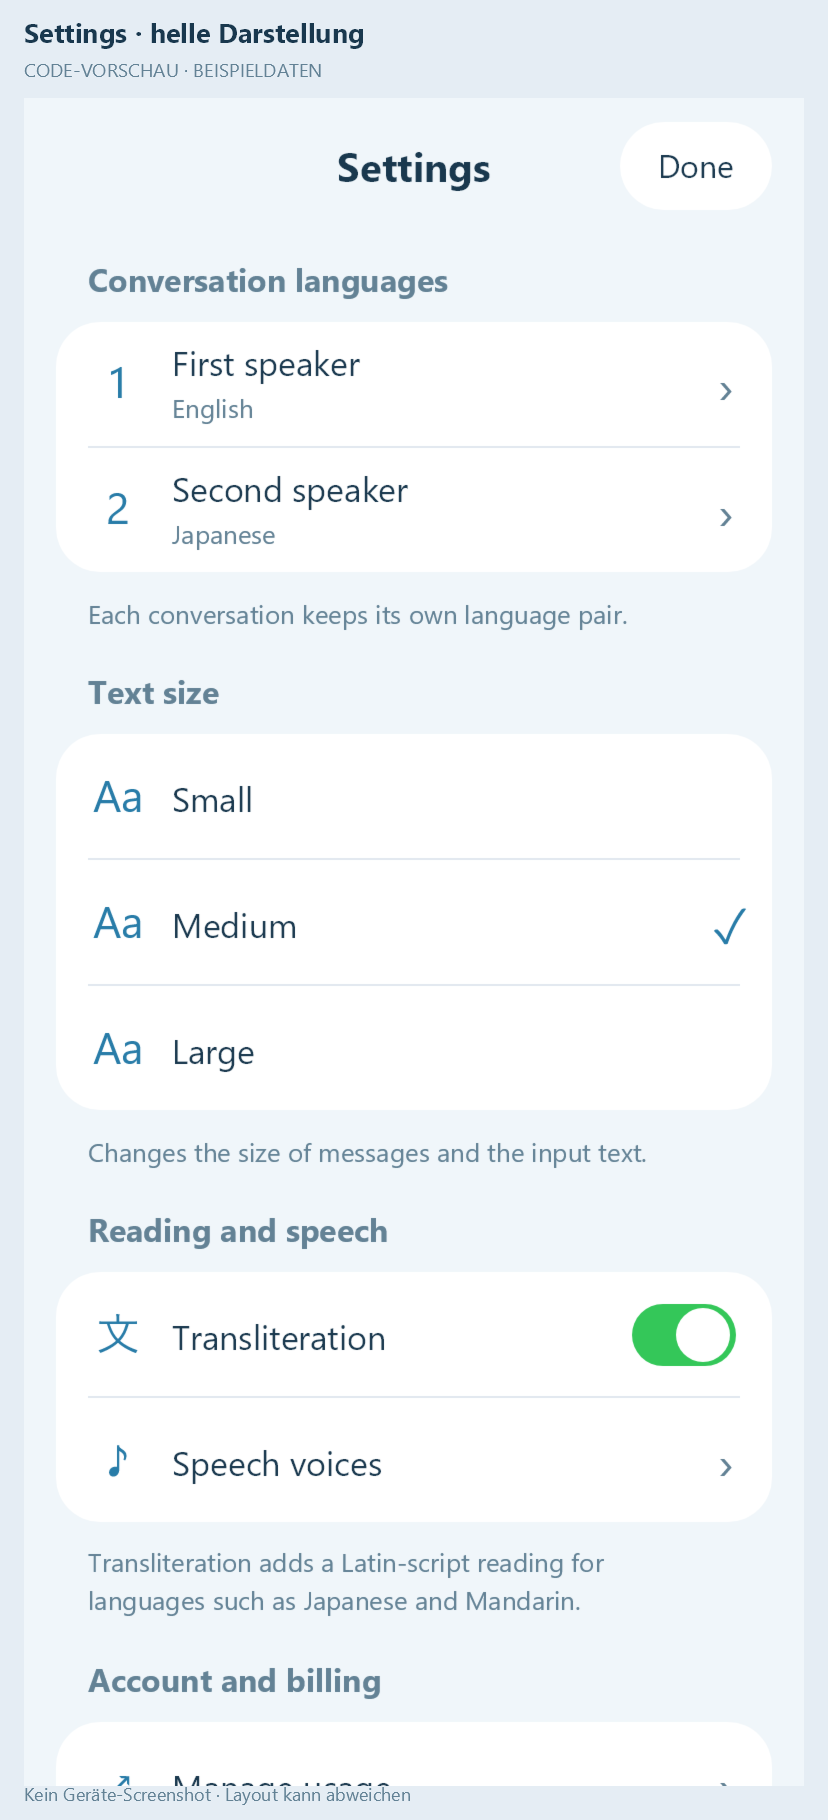
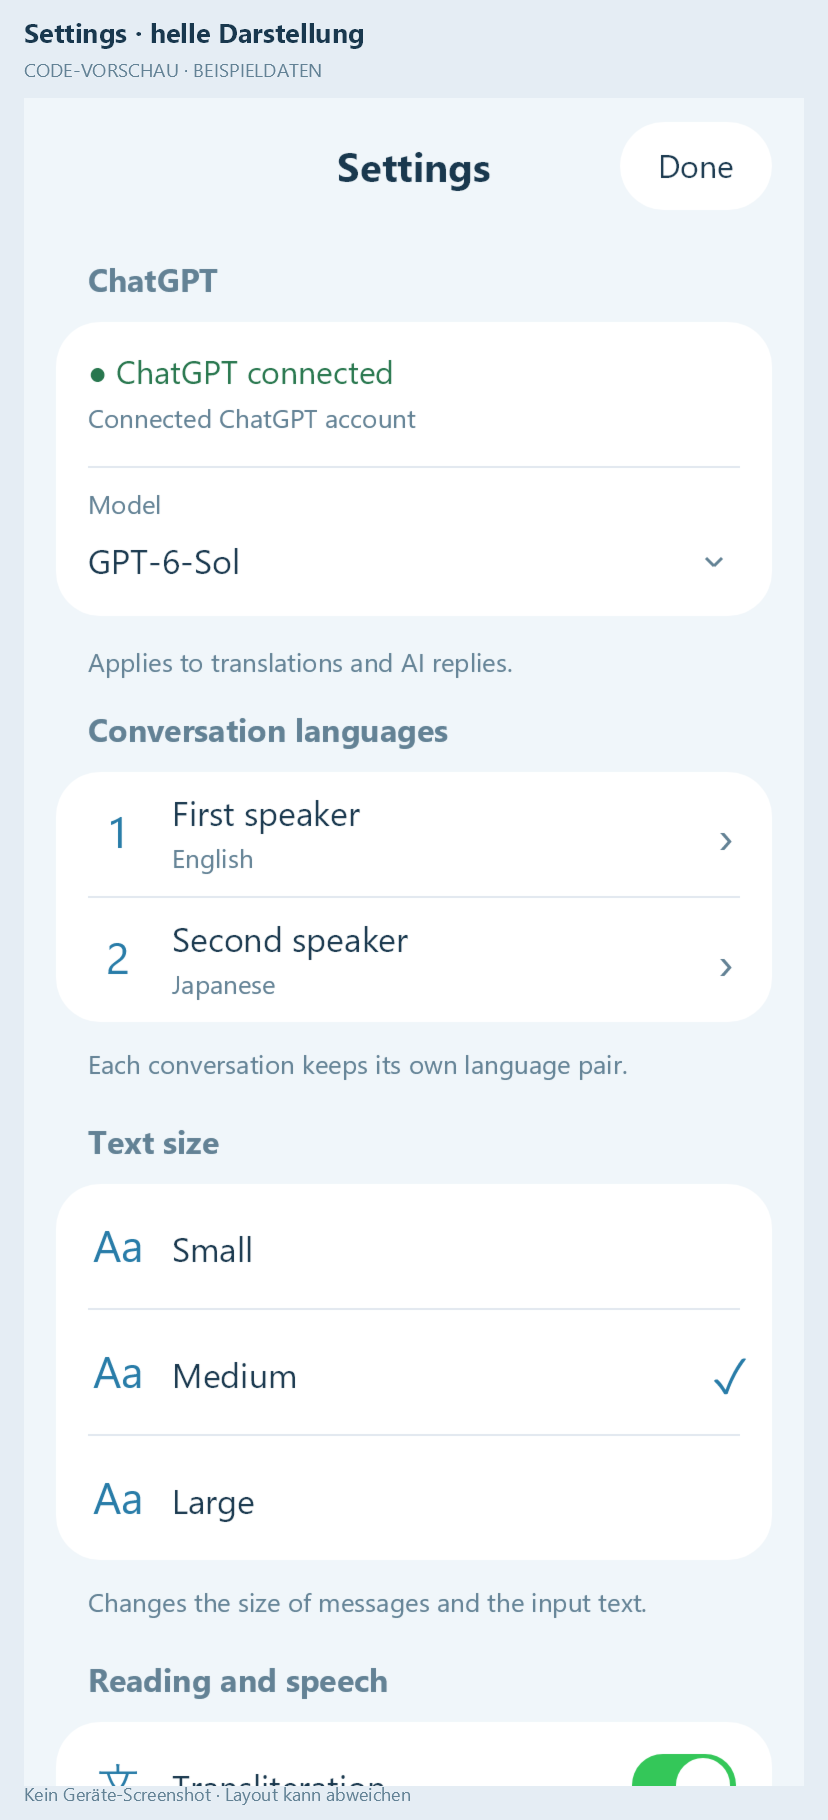
Move account and model controls to Settings and split header navigation

diff --git a/Koe-Maui/MainPage.cs b/Koe-Maui/MainPage.cs
@@ -38,7 +38,7 @@ public sealed class MainPage : ContentPage
     readonly ConversationListView conversationList;
     readonly VerticalStackLayout composer;
     readonly ImageButton chatBack = new() { Source = "back.png", WidthRequest = 44, HeightRequest = 44, CornerRadius = 22, Padding = 11, BackgroundColor = Color.FromArgb("#E8F2F9") };
-    readonly ImageButton newConversation = new() { Source = "compose.png", WidthRequest = 48, HeightRequest = 44, Padding = 10, BackgroundColor = Colors.Transparent };
+    readonly ImageButton newConversation = new() { Source = "compose.png", WidthRequest = 44, HeightRequest = 44, CornerRadius = 22, Padding = 10, BackgroundColor = Color.FromArgb("#E8F2F9") };
     bool showingConversations = true, initializedConversations;
     Guid conversationId = Guid.NewGuid();
     DateTimeOffset conversationCreatedAt = DateTimeOffset.UtcNow;
@@ -79,8 +79,7 @@ public sealed class MainPage : ContentPage
     readonly Button firstSpeaker = LanguageButton("English"), secondSpeaker = LanguageButton("Japanese");
     readonly Button aiSpeaker = new() { Text = "AI", FontSize = 14, FontAttributes = FontAttributes.Bold, WidthRequest = 52, HeightRequest = 36, CornerRadius = 18, Padding = 0, TextColor = Color.FromArgb("#205C3B"), BackgroundColor = Colors.White, BorderColor = Color.FromArgb("#9ACCAF"), BorderWidth = 1 };
     readonly Label status = new() { FontSize = 12, TextColor = Muted, HorizontalTextAlignment = TextAlignment.Center, IsVisible = false };
-    readonly Label account = new() { FontSize = 12, TextColor = Muted, MaxLines = 1, LineBreakMode = LineBreakMode.TailTruncation, VerticalTextAlignment = TextAlignment.Center };
-    readonly Picker modelPicker = new() { Title = "Model", FontSize = 12, WidthRequest = 132, HeightRequest = 30, MinimumHeightRequest = 30, VerticalOptions = LayoutOptions.Center, TextColor = Ink, BackgroundColor = Color.FromArgb("#E8F2F9"), ItemDisplayBinding = new Binding(nameof(TranslationModel.Name)) };
+    TranslationModel[] availableModels = [];
     bool updatingModels, loadingModels;
     string selectedModelId = Preferences.Default.Get("koe.model", "");
     readonly Label prompt = new() { FontSize = 17, FontAttributes = FontAttributes.Bold, TextColor = Ink };
@@ -106,47 +105,26 @@ public sealed class MainPage : ContentPage
         Title = "Koe"; BackgroundColor = Color.FromArgb("#F0F6FA");
         // Resize the whole chat above the keyboard, including the composer and send button.
         SafeAreaEdges = Microsoft.Maui.SafeAreaEdges.All;
-        var menu = new ImageButton { Source = "more.png", BackgroundColor = Colors.Transparent, WidthRequest = 48, HeightRequest = 44, Padding = 10 };
+        var menu = new ImageButton { Source = "more.png", BackgroundColor = Color.FromArgb("#E8F2F9"), WidthRequest = 44, HeightRequest = 44, CornerRadius = 22, Padding = 10 };
         SemanticProperties.SetDescription(menu, "Settings");
         menu.Clicked += async (_, _) => { if (!busy && !leavingConversation && !recording.HasTurn) await ShowSettingsAsync(); };
         newConversation.Clicked += async (_, _) => await StartNewConversationAsync();
         SemanticProperties.SetDescription(newConversation, "Start a new conversation");
-        var header = new Grid
+        var header = new VerticalStackLayout
         {
-            Padding = new Thickness(18, 6, 18, 8), ColumnSpacing = 10, RowSpacing = 2, BackgroundColor = Colors.White,
-            ColumnDefinitions = { new ColumnDefinition(GridLength.Star), new ColumnDefinition(GridLength.Auto) },
-            RowDefinitions = { new RowDefinition(GridLength.Auto), new RowDefinition(GridLength.Auto) }
+            Padding = new Thickness(18, 6, 18, 8), Spacing = 2, BackgroundColor = Colors.White
         };
         SemanticProperties.SetDescription(chatBack, "Show saved conversations");
         chatBack.Clicked += async (_, _) => await BackToChatsAsync();
-        // Equal fixed side slots keep the title centered when the back button is hidden.
-        var heading = new Grid { ColumnSpacing = 0, ColumnDefinitions = { new(98), new(GridLength.Star), new(98) } };
-        chatBack.HorizontalOptions = LayoutOptions.Start;
-        chatBack.VerticalOptions = LayoutOptions.Center;
-        heading.Add(chatBack, 0, 0);
+        // The title has its own centered row; chat navigation stays in the row below.
+        var heading = new Grid { ColumnSpacing = 0, ColumnDefinitions = { new(44), new(GridLength.Star), new(44) } };
         heading.Add(new Label { Text = "Koe", FontSize = 23, FontAttributes = FontAttributes.Bold, TextColor = Ink, HorizontalTextAlignment = TextAlignment.Center, VerticalTextAlignment = TextAlignment.Center, MaxLines = 1 }, 1, 0);
-        header.Add(heading, 0, 0);
-        Grid.SetColumnSpan(heading, 2);
-        var actions = new Grid { ColumnSpacing = 0, ColumnDefinitions = { new(48), new(48) } };
-        actions.Add(newConversation, 0, 0); actions.Add(menu, 1, 0);
-        var actionPill = new Border
-        {
-            Content = actions, Padding = 0, HeightRequest = 46, WidthRequest = 98,
-            HorizontalOptions = LayoutOptions.End, BackgroundColor = Color.FromArgb("#E8F2F9"),
-            Stroke = Color.FromArgb("#DCE8F0"), StrokeThickness = 1,
-            StrokeShape = new RoundRectangle { CornerRadius = 23 }
-        };
-        heading.Add(actionPill, 2, 0);
-        header.Add(account, 0, 1);
-        header.Add(modelPicker, 1, 1);
-        modelPicker.HorizontalOptions = LayoutOptions.End;
-        SemanticProperties.SetDescription(modelPicker, "ChatGPT model");
-        modelPicker.SelectedIndexChanged += (_, _) =>
-        {
-            if (updatingModels || modelPicker.SelectedItem is not TranslationModel selected) return;
-            selectedModelId = selected.Id;
-            Preferences.Default.Set("koe.model", selectedModelId);
-        };
+        heading.Add(menu, 2, 0);
+        header.Children.Add(heading);
+        var navigation = new Grid { ColumnSpacing = 0, ColumnDefinitions = { new(44), new(GridLength.Star), new(44) } };
+        navigation.Add(chatBack, 0, 0);
+        navigation.Add(newConversation, 2, 0);
+        header.Children.Add(navigation);
         signInCard = new Border
         {
             Margin = new Thickness(16, 10), Padding = 14, StrokeThickness = 0, BackgroundColor = Color.FromArgb("#E1EEF8"), StrokeShape = new RoundRectangle { CornerRadius = 18 },
@@ -676,17 +654,17 @@ public sealed class MainPage : ContentPage
         await RefreshModelsAsync();
     }
 
-    async Task RefreshModelsAsync()
+    public async Task RefreshModelsAsync()
     {
         if (!auth.IsConnected)
         {
-            updatingModels = true;
-            modelPicker.ItemsSource = null;
-            updatingModels = false;
+            availableModels = [];
+            NotifyModelChoices();
             return;
         }
         if (loadingModels) return;
         loadingModels = true;
+        NotifyModelChoices();
         var connection = auth.ConnectionKey;
         try
         {
@@ -694,18 +672,29 @@ public sealed class MainPage : ContentPage
             var available = await translator.GetModelsAsync(timeout.Token);
             if (!auth.IsConnected || auth.ConnectionKey != connection) return;
             var selected = available.FirstOrDefault(x => x.Id == selectedModelId) ?? available[0];
-            updatingModels = true;
-            modelPicker.ItemsSource = available;
-            modelPicker.SelectedItem = selected;
+            availableModels = available;
             selectedModelId = selected.Id;
             Preferences.Default.Set("koe.model", selectedModelId);
         }
         catch (Exception) { if (!busy && auth.IsConnected && pageVisible) SetStatus("Could not load model choices. Reconnect to refresh the list."); }
         finally
         {
-            updatingModels = false; loadingModels = false; UpdateControls();
+            loadingModels = false; UpdateControls(); NotifyModelChoices();
             if (auth.IsConnected && auth.ConnectionKey != connection) await RefreshModelsAsync();
         }
+    }
+
+    void NotifyModelChoices()
+    {
+        updatingModels = true;
+        try
+        {
+            OnPropertyChanged(nameof(AvailableModels));
+            OnPropertyChanged(nameof(SelectedModel));
+            OnPropertyChanged(nameof(ModelChoiceHint));
+            OnPropertyChanged(nameof(CanSelectModel));
+        }
+        finally { updatingModels = false; }
     }
 
     protected override void OnDisappearing()
@@ -766,7 +755,25 @@ public sealed class MainPage : ContentPage
     public string SecondLanguageName => second.Name;
     public string CurrentTextSize => TextSizeLabel;
     public bool IsAccountConnected => auth.IsConnected;
+    public bool IsAccountDisconnected => !auth.IsConnected;
     public string AccountName => auth.AccountLabel;
+    public IReadOnlyList<TranslationModel> AvailableModels => availableModels;
+    public bool CanSelectModel => auth.IsConnected && !busy && !recording.HasTurn && !loadingModels && availableModels.Length > 0;
+    public string ModelChoiceHint => !auth.IsConnected ? "Connect ChatGPT to choose a model."
+        : loadingModels ? "Loading your account's models …"
+        : availableModels.Length == 0 ? "Could not load models. Close Settings and reopen to retry."
+        : "Applies to translations and AI replies.";
+    public TranslationModel? SelectedModel
+    {
+        get => availableModels.FirstOrDefault(model => model.Id == selectedModelId);
+        set
+        {
+            if (updatingModels || !CanSelectModel || value is null || !availableModels.Any(model => model.Id == value.Id) || value.Id == selectedModelId) return;
+            selectedModelId = value.Id;
+            Preferences.Default.Set("koe.model", selectedModelId);
+            OnPropertyChanged(nameof(SelectedModel));
+        }
+    }
 
     public Task ShowSettingsAsync(INavigation? navigation = null)
     {
@@ -1066,11 +1073,11 @@ public sealed class MainPage : ContentPage
         livePreview.BackgroundColor = mode.IsAi ? Color.FromArgb("#DDF1DF") : Colors.White;
         firstGreeting.Text = first.Greeting;
         secondGreeting.Text = second.Greeting;
-        account.Text = auth.IsConnected ? "● ChatGPT connected" : "○ ChatGPT not connected";
-        account.TextColor = auth.IsConnected ? Color.FromArgb("#28774E") : Muted;
         draft.PreferredCulture = mode.IsAi ? "" : SourceLanguage.Culture;
-        modelPicker.IsVisible = auth.IsConnected;
-        modelPicker.IsEnabled = auth.IsConnected && !busy && !recording.HasTurn && !loadingModels && modelPicker.ItemsSource is { Count: > 0 };
+        OnPropertyChanged(nameof(IsAccountConnected));
+        OnPropertyChanged(nameof(IsAccountDisconnected));
+        OnPropertyChanged(nameof(AccountName));
+        OnPropertyChanged(nameof(CanSelectModel));
         signInCard.IsVisible = !auth.IsConnected; connect.IsEnabled = !busy;
         draft.IsReadOnly = busy && (!pausingForEdit || discardingInput);
         send.IsEnabled = !busy && auth.IsConnected && (recording.HasTurn || !string.IsNullOrWhiteSpace(draft.Text) || pendingImage is not null);

diff --git a/Koe-Maui/SettingsPage.cs b/Koe-Maui/SettingsPage.cs
@@ -76,7 +76,11 @@ public sealed class SettingsPage : ContentPage
         Refresh();
     }
 
-    protected override void OnAppearing() { base.OnAppearing(); Refresh(); }
+    protected override async void OnAppearing()
+    {
+        base.OnAppearing(); Refresh();
+        await owner.RefreshModelsAsync();
+    }
 
     void Section(string name)
     {
@@ -130,6 +134,42 @@ public sealed class SettingsPage : ContentPage
     void Refresh()
     {
         body.Children.Clear();
+        Section("ChatGPT");
+        var connection = new VerticalStackLayout { Padding = new Thickness(16, 14), Spacing = 4 };
+        var connected = SettingsStyle.Label("● ChatGPT connected", 16);
+        connected.SetAppThemeColor(Label.TextColorProperty, Color.FromArgb("#28774E"), Color.FromArgb("#7AD5A3"));
+        connected.SetBinding(VisualElement.IsVisibleProperty, new Binding(nameof(MainPage.IsAccountConnected), source: owner));
+        var disconnected = SettingsStyle.Label("○ ChatGPT not connected", 16, muted: true);
+        disconnected.SetBinding(VisualElement.IsVisibleProperty, new Binding(nameof(MainPage.IsAccountDisconnected), source: owner));
+        var accountName = SettingsStyle.Label("", 13, muted: true);
+        accountName.SetBinding(Label.TextProperty, new Binding(nameof(MainPage.AccountName), source: owner));
+        accountName.SetBinding(VisualElement.IsVisibleProperty, new Binding(nameof(MainPage.IsAccountConnected), source: owner));
+        connection.Children.Add(connected);
+        connection.Children.Add(disconnected);
+        connection.Children.Add(accountName);
+        var modelPicker = new Picker
+        {
+            Title = "Choose a model", FontSize = 17, HeightRequest = 44, MinimumHeightRequest = 44,
+            BackgroundColor = Colors.Transparent, HorizontalOptions = LayoutOptions.Fill,
+            ItemDisplayBinding = new Binding(nameof(TranslationModel.Name))
+        };
+        modelPicker.SetAppThemeColor(Picker.TextColorProperty, Color.FromArgb("#19384E"), Color.FromArgb("#F5F5F7"));
+        modelPicker.SetAppThemeColor(Picker.TitleColorProperty, Color.FromArgb("#638295"), Color.FromArgb("#B2B2B7"));
+        modelPicker.SetBinding(Picker.ItemsSourceProperty, new Binding(nameof(MainPage.AvailableModels), source: owner));
+        modelPicker.SetBinding(Picker.SelectedItemProperty, new Binding(nameof(MainPage.SelectedModel), BindingMode.TwoWay, source: owner));
+        modelPicker.SetBinding(VisualElement.IsEnabledProperty, new Binding(nameof(MainPage.CanSelectModel), source: owner));
+        SemanticProperties.SetDescription(modelPicker, "ChatGPT model for translations and AI replies");
+        var modelRow = new VerticalStackLayout
+        {
+            Padding = new Thickness(16, 8), Spacing = 0,
+            Children = { SettingsStyle.Label("Model", 13, muted: true), modelPicker }
+        };
+        body.Children.Add(SettingsStyle.Group(connection, modelRow));
+        var modelHint = SettingsStyle.Label("", 13, muted: true);
+        modelHint.Margin = new Thickness(16, 0);
+        modelHint.SetBinding(Label.TextProperty, new Binding(nameof(MainPage.ModelChoiceHint), source: owner));
+        body.Children.Add(modelHint);
+
         Section("Conversation languages");
         body.Children.Add(SettingsStyle.Group(
             Action("1", "First speaker", () => owner.ChangeLanguageAsync(true), owner.FirstLanguageName),

diff --git a/README.md b/README.md
@@ -4,15 +4,15 @@ The app icon uses three overlapping, offset speech bubbles: a white **A**, a min
 
 ## Saved conversations and grouped Settings
 
-Saved chats are shown directly in the normal Koe window, inside the transcript area. The Koe header, account status, model picker and the full composer stay visible. Tap the **square-and-pencil** icon in the header for a new conversation, tap a saved chat to open its transcript in the same area, and use the back chevron to show the embedded list again. There is no separate start page or chat-list navigation push. Typing or recording from the list starts a new conversation using the visible composer. Each row shows a title from its first message, the latest message or draft, its language pair and its date. Swipe left to reveal the red **Delete** action, then tap it to delete that conversation and its photos. **Clear history** has been removed. New, unused chats do not create empty list entries.
+Saved chats are shown directly in the normal Koe window, inside the transcript area. The Koe header and the full composer stay visible. Tap the **square-and-pencil** icon in the header for a new conversation, tap a saved chat to open its transcript in the same area, and use the back chevron to show the embedded list again. There is no separate start page or chat-list navigation push. Typing or recording from the list starts a new conversation using the visible composer. Each row shows a title from its first message, the latest message or draft, its language pair and its date. Swipe left to reveal the red **Delete** action, then tap it to delete that conversation and its photos. **Clear history** has been removed. New, unused chats do not create empty list entries.
 
 Completed translations, bilingual AI messages, transliterations, source links, selected languages, active speaker/AI mode, editable drafts and attached photos are stored in the app's data directory. Text changes are saved after a short debounce; sending, leaving a chat and app lifecycle events also flush the current snapshot. Opening a chat restores its own messages and therefore its own AI context. A new chat starts with no prior conversation context. Opening the list or starting another conversation pauses an active microphone and saves the current draft first; recording never restarts automatically on reopening.
 
 A per-chat JSON manifest is written to a temporary file, flushed and atomically renamed. The last valid manifest is retained as a recovery backup. Photos are stored separately by content hash inside the chat folder, rather than copied into every message or JSON rewrite. Deleting a chat removes its manifest, backup and photos; queued saves cannot recreate that deleted chat. Credentials and personal voice API keys remain in SecureStorage and are never included in chat files. Paths are reconstructed from AppDataDirectory on each launch. This is device-local chat storage, not a new account or app-provided cross-device sync. Existing conversations that were already lost by older builds cannot be recovered.
 
-The header uses bundled vector icons: a chevron in a round back button, plus square-and-pencil and ellipsis buttons in a shared rounded capsule. **Koe** stays centered in the full header width: equal fixed-width side slots reserve space even when the back button is hidden. The icon colors follow Koe's light blue palette. New-conversation behavior, draft saving and swipe deletion are unchanged.
+The header has two rows. **Koe** stays centered in the top row, with the ellipsis Settings button on the right and an equal reserved slot on the left. The second row places the round back button on the left and the square-and-pencil new-conversation button on the right. The chat list hides only the back button; neither the title nor the new-chat button moves. The icon colors follow Koe's light blue palette.
 
-**Settings** now opens a grouped sheet with rounded cards, a centered heading, a Done button, text-size checkmarks and a transliteration switch. Language selection, iPhone voice selection, optional OpenAI voice setup, usage and sign-in/sign-out remain accessible. Colors adapt to the device's light/dark appearance; the OpenAI key/setup sheet uses the same readable grouped style. The **Account and billing** group lists **Manage usage**, then **OpenAI voice** (API key, voice and billing setup), then sign-in/sign-out. The ChatGPT login and API-cost consent for optional OpenAI speech are retained.
+**Settings** opens a grouped sheet with rounded cards, a centered heading, a Done button, text-size checkmarks and a transliteration switch. Its first **ChatGPT** group contains the live connection status, account name and model picker. These controls are no longer in the chat header. Language selection, iPhone voice selection, optional OpenAI voice setup, usage and sign-in/sign-out remain accessible. Colors adapt to the device's light/dark appearance; the OpenAI key/setup sheet uses the same readable grouped style. The **Account and billing** group lists **Manage usage**, then **OpenAI voice** (API key, voice and billing setup), then sign-in/sign-out. The ChatGPT login and API-cost consent for optional OpenAI speech are retained.
 
 Validation covers restart recovery, Unicode, photos, drafts, independent chats/languages, AI source metadata, sorting, deletion, queued saves, corrupt/partial manifests and future-format preservation. Native iPhone layouts, keyboard behavior, background/resume and left-swipe deletion still require a TestFlight check. No updated App Store screenshots have been created for these UI changes yet.
 
@@ -62,7 +62,7 @@ Validation: shared protocol checks cover session setup, fragmented events, WAV o
 
 ## Model selection
 
-A compact model picker in the chat header lists the connected ChatGPT account's visible models, displaying server-provided names while sending their model IDs to the Responses API. The choice is saved locally and applies to the next translation. Selection is disabled while processing or recording a turn. The account-specific catalog is cached for 30 minutes and refreshed on credential changes; signing out clears it. Stored choices absent from a freshly loaded catalog reset to its first entry in the picker; if a model disappears before a request, that request reports an error instead of silently substituting a different model. Model capabilities, account limits and response speed can vary.
+The model picker under **Settings → ChatGPT → Model** lists the connected account's visible models, displaying server-provided names while sending their model IDs to the Responses API. The choice is saved locally and applies to subsequent translations and AI replies. Selection is disabled while processing, recording a turn or loading model choices. Opening Settings refreshes the catalog and shows a loading or reconnect hint when needed. The account-specific catalog is cached for 30 minutes and refreshed on credential changes; signing out clears it. Stored choices absent from a freshly loaded catalog reset to its first entry in the picker; if a model disappears before a request, that request reports an error instead of silently substituting a different model. Model capabilities, account limits and response speed can vary.
 ## Read aloud and voices
 
 Speaker icons beside original and translated text use native iPhone speech synthesis. Tap the same speaker again to stop; starting recording, discarding input or leaving the page stops playback. Playback is blocked during active recording. **Settings → Speech voices** lets users choose a language, select an available voice and hear a sample greeting; selections are saved per language. The number of voices depends on the installed/available iOS voices, so two or three choices are not guaranteed for every recognition language. The app offers the currently available iPhone voices; it no longer contains an iPhone Settings link or an Add iPhone voices menu item. If a voice is unavailable, it suggests the optional OpenAI voice setting. Speech synthesis uses a system-managed audio session independent of recording. The Windows development build displays an unsupported notice. Native audio routing and voice selection require TestFlight testing.

diff --git a/store-assets/previews/README.md b/store-assets/previews/README.md
@@ -2,8 +2,10 @@
 
 These illustrations explain the current layout in `MainPage.cs`,
 `ConversationListView.cs` and `SettingsPage.cs`, including the square-and-pencil
-new-chat icon, grouped header controls and the relocated OpenAI voice setup.
-The title is centered using equal reserved side slots in both list and chat views.
+new-chat icon, two-row header and the relocated OpenAI voice setup.
+The title is centered in its own top row, with Settings on the right. The back
+and new-chat buttons sit in the row below. Connection status and model selection
+are in the first ChatGPT Settings group.
 They are **not screenshots captured from the running application or an iPhone**.
 The native app window could not be opened in the current desktop session
 (`GetCursorPos failed: Access is denied`).
@@ -13,9 +15,10 @@ Colors, text sizes, grouping, controls and the shared header/composer follow
 dates, connection status and the displayed model are illustrative sample data.
 Font rendering, native control appearance, exact spacing, safe areas, keyboard
 behavior and scrolling may differ on a real iPhone. The Settings previews show
-the upper scroll position; account settings remain accessible farther down.
+the upper scroll position with ChatGPT connection status and model selection;
+billing settings remain accessible farther down.
 
-- `Koe-UI-Code-Preview.png`: overview of the embedded chat list, conversation and scrolled dark Settings.
+- `Koe-UI-Code-Preview.png`: overview of the embedded chat list, conversation and ChatGPT Settings.
 - `Koe-Preview-Chats.png`: embedded chat list.
 - `Koe-Preview-Conversation.png`: opened conversation.
 - `Koe-Preview-Settings-Dark.png`: dark Settings.
